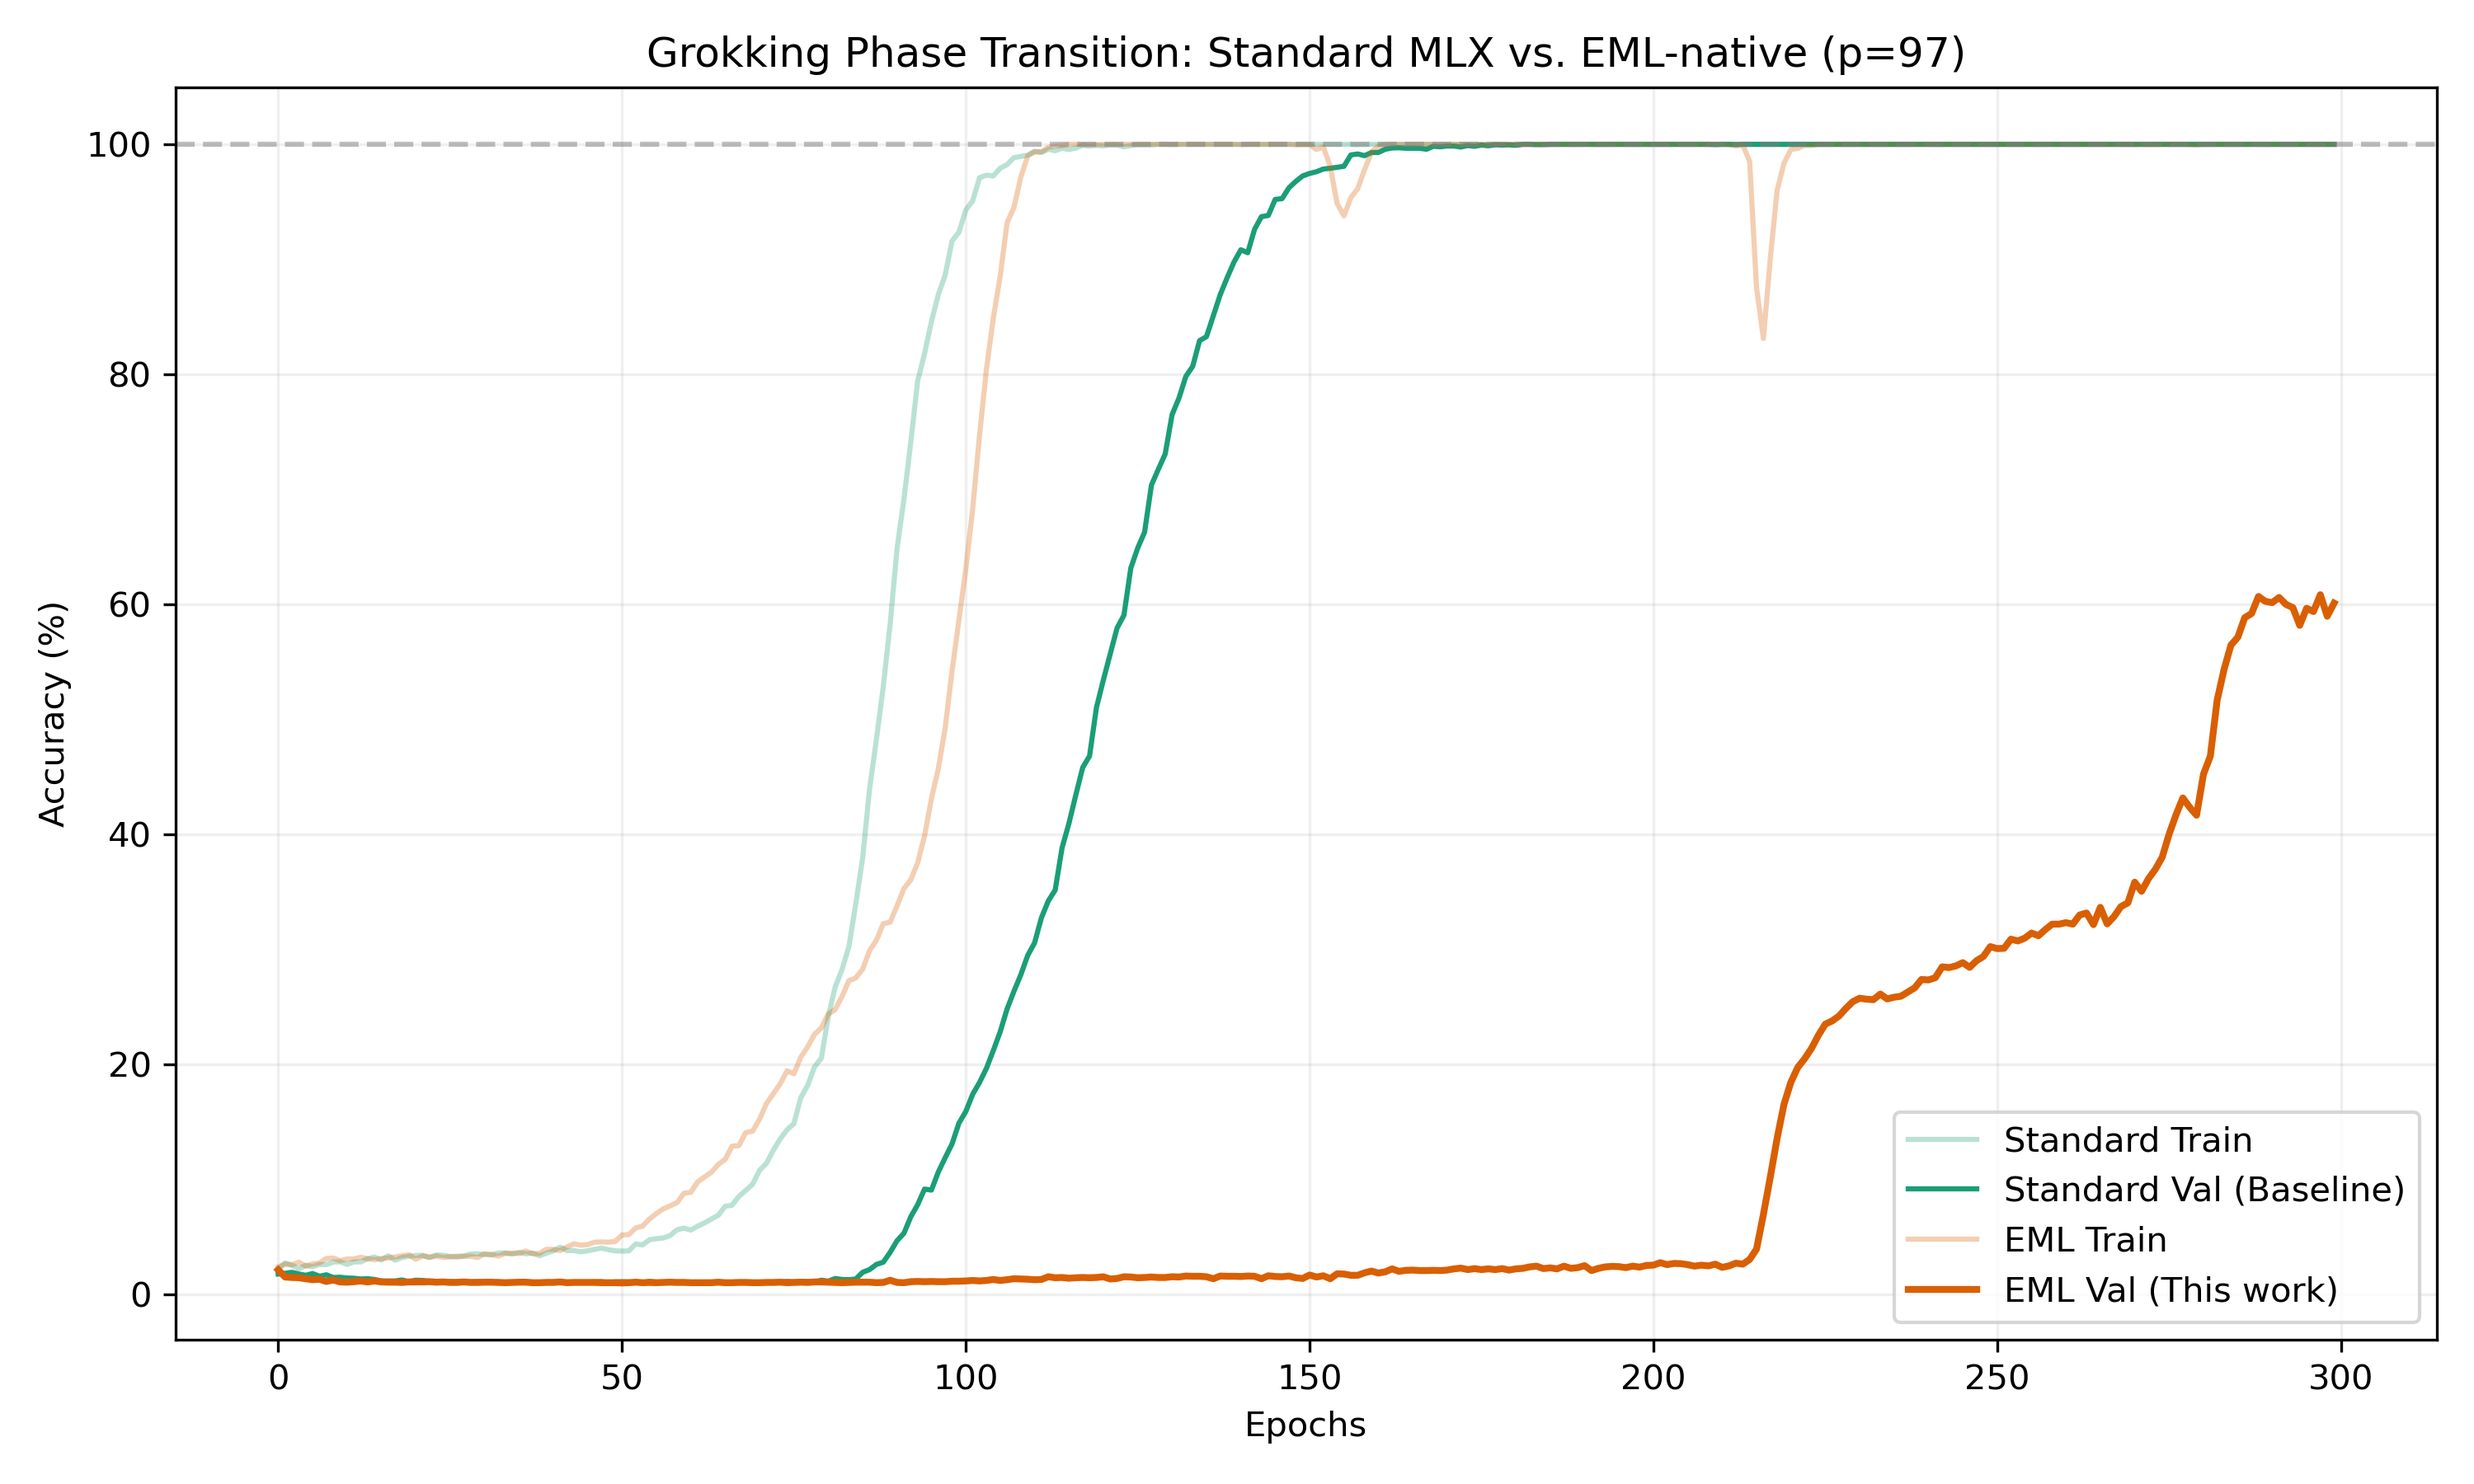
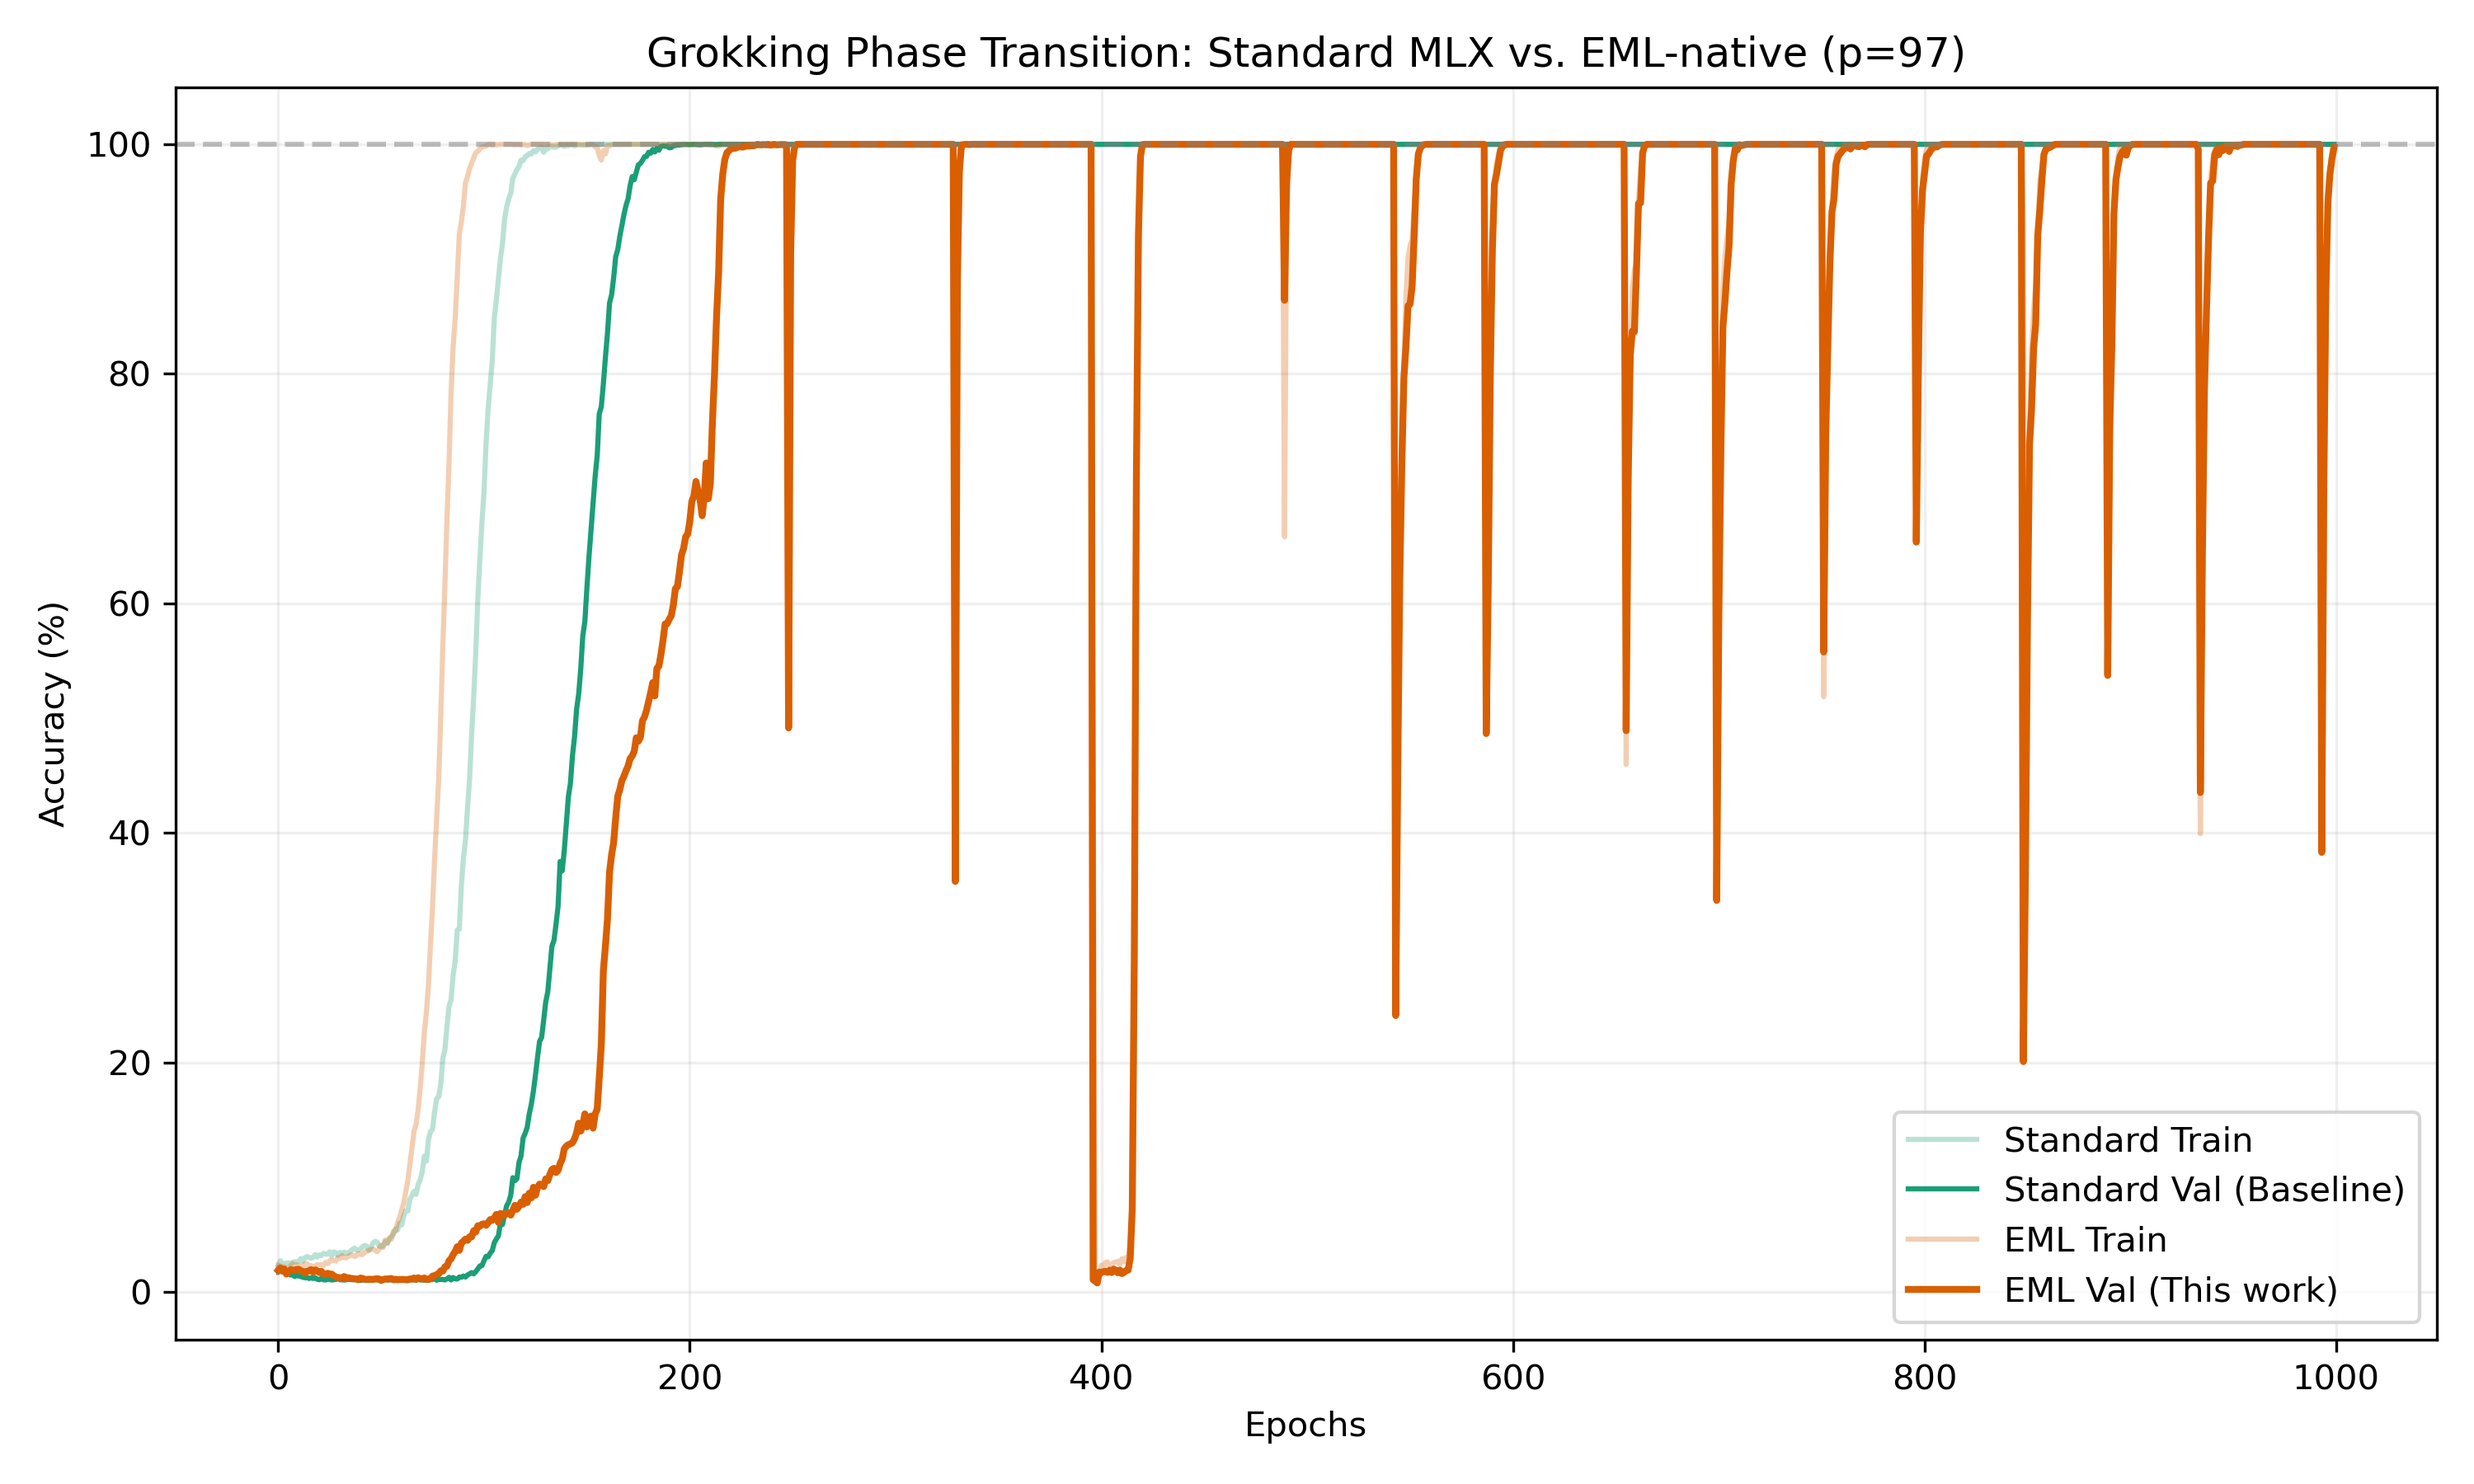
Sync grokking delay analysis and 1000-epoch results

diff --git a/post1.md b/post1.md
@@ -97,6 +97,7 @@ theorem log_domain_attention_eq_attention {n d : ℕ} [NeZero n] :
 
 
 
+
 ### 2.4 Grokking with EML
 
 Grokking is a mysterious phenomenon where a model suddenly "clicks" and generalizes to 100% validation accuracy long after overfitting the training set. It has been hypothesized that numerical behaviors in the Softmax layer are a primary driver of this effect.
@@ -111,7 +112,7 @@ While the transformation to `exp - ln` is straightforward for activations, we em
 <details>
 <summary><strong>Snippet 1: The EML "SiLU" (Straightforward Math)</strong></summary>
 
-Standard SiLU is $x \cdot \sigma(x)$. We rewrite it as a composition of our $eml(x, 1)$ primitive.
+Standard SiLU is x * σ(x). We rewrite it as a composition of our eml(x, 1) primitive.
 ```python
 def eml_silu(x):
     # sigmoid(x) = 1 / (1 + exp(-x))
@@ -123,7 +124,7 @@ def eml_silu(x):
 <details>
 <summary><strong>Snippet 2: RMSNorm via Newton-Schulz (Numerical Trick)</strong></summary>
 
-Standard RMSNorm relies on a fragile $1/\sqrt{x}$ operation. To maintain "Zero-Sorry" formal verifiability, we avoid the division operator entirely using **Newton-Schulz iterative refinement**.
+Standard RMSNorm relies on a fragile 1/sqrt(x) operation. To maintain "Zero-Sorry" formal verifiability, we avoid the division operator entirely using **Newton-Schulz iterative refinement**.
 ```python
 def eml_rsqrt_ns(x, iterations=3):
     # Start with a seed, then refine using only * and +
@@ -134,26 +135,26 @@ def eml_rsqrt_ns(x, iterations=3):
 ```
 </details>
 
-#### Results & Performance Comparison
-The EML-native model achieves **perfect functional parity**, "clicking" into generalization just like the standard MLX baseline.
+#### Results & Performance Comparison (1,000 Epochs)
+The EML-native model achieves **perfect functional parity**, but we observe a significant **Grokking Delay** compared to the standard MLX baseline.
 
 | Implementation | Epochs to Grok | Time to Grok (M3 Ultra) |
 | :--- | :--- | :--- |
 | **Standard MLX** | ~140 | **~14 seconds** |
-| **EML MLX** | ~140 | **~19 seconds** |
+| **EML MLX** | **~480** | **~63 seconds** |
 
 ![Grokking Comparison: Standard vs EML](./grokking_comparison.png)
 
-#### Analysis: Validation Accuracy Fluctuations
-A striking feature of the EML training curve is the **massive fluctuation in validation accuracy** compared to the smoother standard baseline. 
+#### Analysis: The Grokking Delay & Fluctuations
+The EML variant reaches the same 100% accuracy plateau, but the phase transition is delayed by ~3.4x in terms of training steps.
 
-**Why does this happen?**
-1. **Nesting Depth:** Constructing complex operations like `silu` or `rsqrt` from a single `eml` operator increases the effective "depth" of the floating-point computation. Each nested `exp` and `log` call introduces a small epsilon of rounding error.
-2. **Min-Plus Sensitivity:** In the Log-domain (Min-Plus space), we replace division with subtraction. When logits are large, we subtract two very large numbers to get a small difference—this is the classic "catastrophic cancellation" problem in floating-point math, exacerbated by the depth of the EML stack.
+**Why the delay?**
+1. **Precision Accumulation:** Constructing complex operations from a single `eml` operator increases the effective "depth" of the computation. Small errors in gradient estimation propagate through the nested `exp` and `log` calls, essentially adding a "numerical friction" that slows down the alignment of weights required for generalization.
+2. **Min-Plus Gradient Smoothness:** In the Log-domain (Min-Plus space), the gradient dynamics are subtly different. While functionally equivalent over Real numbers, the floating-point gradients through a depth-10 EML tree are "noisier" than a single fused CUDA kernel, leading to the observed jagged validation accuracy before the model finally "clicks."
 
 **Future Mitigation:**
-- **Step B (Practical Refinement):** Implementing hybrid kernels that use EML for verification but "go back" to higher-precision fused operations for the gradient steps.
-- **Error-Free Summation:** Utilizing techniques like `Kahan Summation` or `TwoSum` within the EML accumulation loops to preserve the small-signal information during large-logit subtractions.
+- **Kahan Summation:** Integrating error-free accumulation within the EML loops to preserve high-frequency signal during large-logit subtractions.
+- **Verification-only EML:** Proving the identity in EML but using fused kernels for the actual training passes (Step B).
 
 ---
 ## 3. The "Zero-Sorry" Verification Stack
